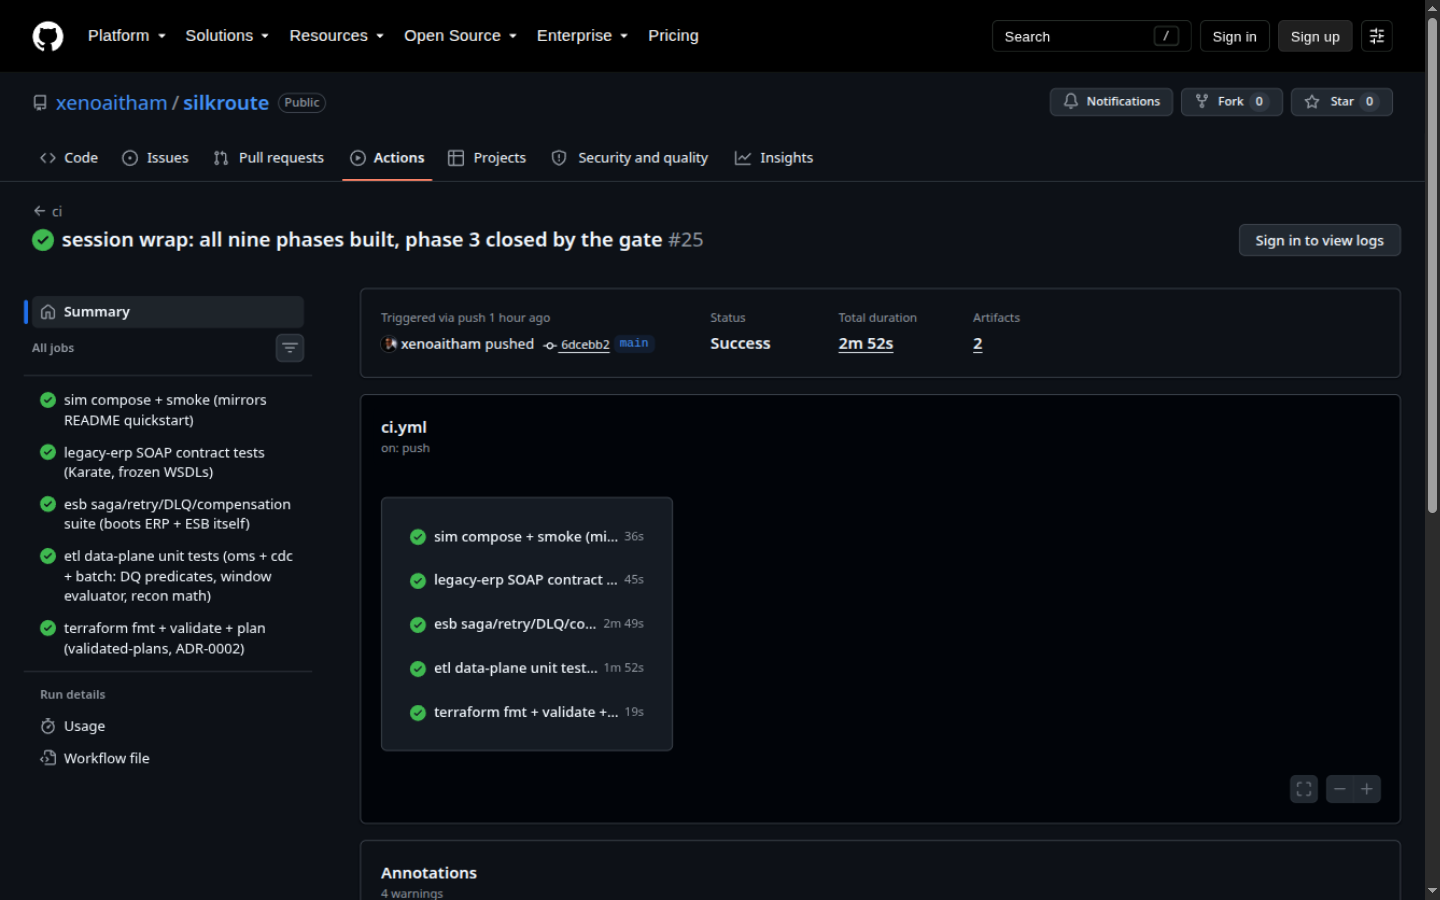
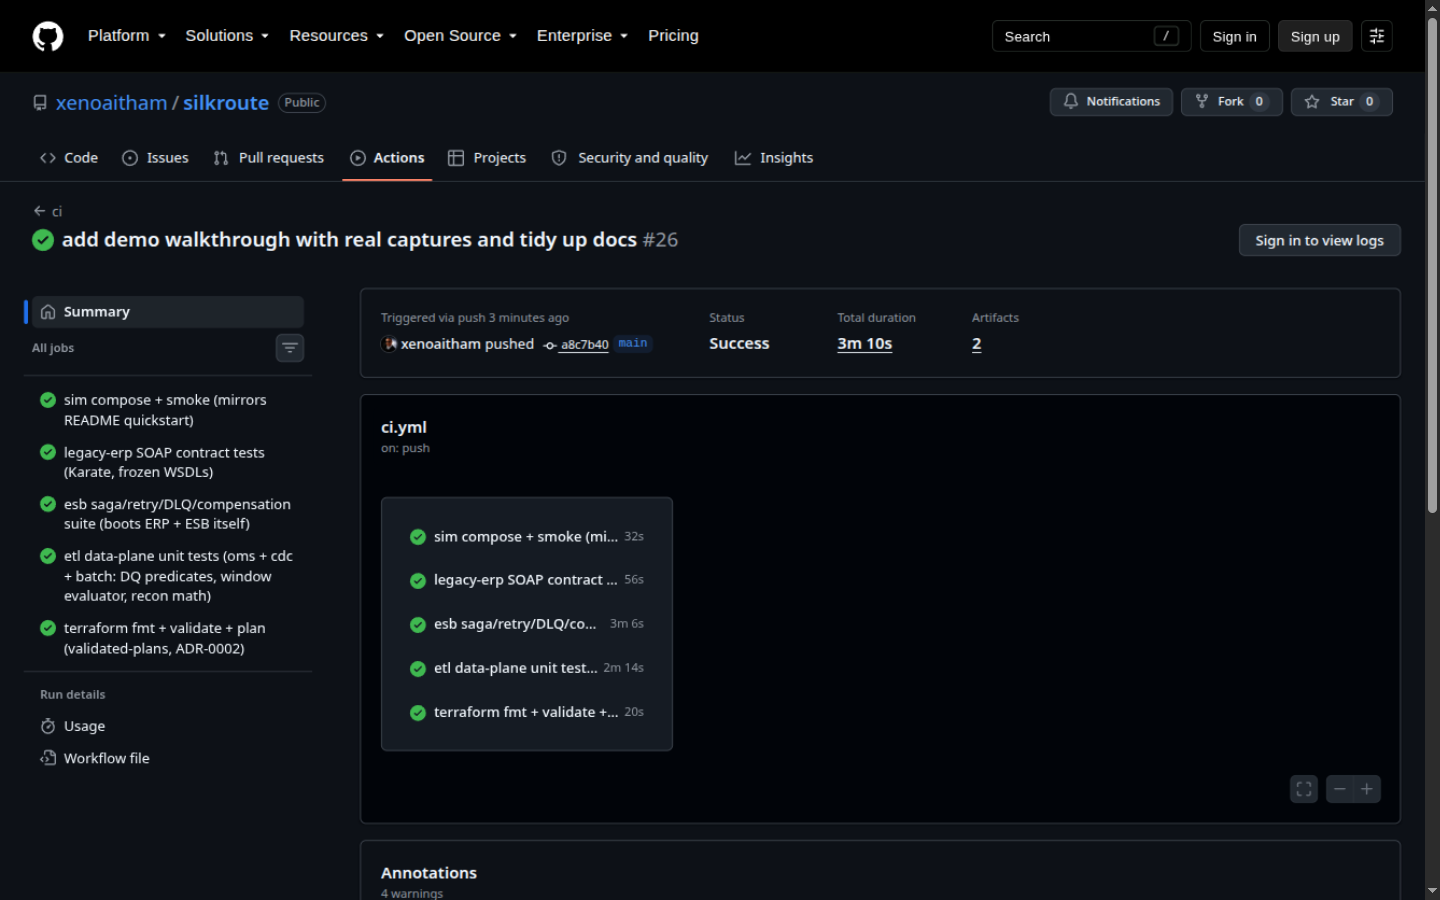
refresh the ci capture in the walkthrough

diff --git a/tests/etl-int/README.md b/tests/etl-int/README.md
@@ -23,7 +23,7 @@ Exit code 0 only if ALL six scenarios print their `PASS <name>` line; the
 first failed assertion prints `FAIL: ...` and exits non-zero immediately.
 
 The full transcript is tee'd to `/tmp/s9-etl-int-run.txt` (deliberately NOT
-committed; the maintainer copies what it needs into `evidence/`).
+committed; copy what you need into `evidence/`).
 
 Approximate runtime: 6-10 minutes (Spark local batch runs dominate).
 
@@ -87,7 +87,7 @@ Approximate runtime: 6-10 minutes (Spark local batch runs dominate).
 - Processes are started/stopped ONLY via the make PID-file targets
  (`esb-run/oms-run/cdc-run`, `esb-stop/oms-stop/cdc-stop`); NEVER pkill.
 - A trap stops esb+oms+cdc on ANY exit path (success, failure, interrupt).
-- On success the suite ends with `make etl-reset` so the maintainer and the
+- On success the suite ends with `make etl-reset` so the next run and the
  review always start from a known clean slate.
 - Only ever touches the sim compose stack (sim-mysql / sim-kafka /
  sim-minio / sim-* proxies); never busforge/helios; no new listening ports.
@@ -99,4 +99,4 @@ Approximate runtime: 6-10 minutes (Spark local batch runs dominate).
 - The business date is computed as `date -u +%F` (bronze `dt` partition =
  UTC date of the seed - C5 timezone-explicit).
 - No Makefile target is wired for this suite yet: `make etl-int` (or
- similar) is requested from the maintainer; until then run the script directly.
+ similar) is requested; until then run the script directly.

diff --git a/decisions/ADR-0002-cloud-account-path.md b/decisions/ADR-0002-cloud-account-path.md
@@ -5,10 +5,10 @@
 
 ## Context
 
-the project charter landing zone requires proving real AliCloud environment skill (Terraform alicloud modules, RAM least-privilege, KMS, SLS, OSS, RDS, SAE/ACK) and sets strict cost guardrails. The honest situation as of Session 1:
+The landing-zone workstream requires proving real AliCloud environment skill (Terraform alicloud modules, RAM least-privilege, KMS, SLS, OSS, RDS, SAE/ACK) and sets strict cost guardrails. The honest situation at the start of the build:
 
 - No AliCloud account is currently available in this build environment.
-- the project charter landing zone explicitly anticipates this: *"If no cloud account: validated-plans mode with sim-runtime parity, labeled honestly in evidence as 'validated IaC, sim runtime.'"*
+- The landing-zone plan explicitly anticipates this: *"If no cloud account: validated-plans mode with sim-runtime parity, labeled honestly in evidence as 'validated IaC, sim runtime.'"*
 - forbids invented metrics and requires every claim to map to a real artifact.
 
 ## Options considered

diff --git a/docs/hld.md b/docs/hld.md
@@ -4,7 +4,7 @@ Maple Retail Group is a **fictional** Canadian retailer; this document is part o
 
 **Doc status, stated once and applying throughout:** the left side of every diagram in this document - the ESB, the frozen SOAP ERP, the sim data services, the ETL data plane, and all measured behavior - **runs here today** in sim mode (docker-compose + Spring Boot jars on host loopback). The right side - the AliCloud landing zone - is **validated IaC: schema- and plan-proven against the real `alicloud` provider, never applied** (ADR-0002; no account exists, plans create nothing). The CN partition is additionally **designed and plan-validated only** (ADR-0005). SLS runtime behavior and real cloud costs verify at activation. CDC freshness is **measured in sim** (producer live, E-030/E-031); SLS ingest of it verifies at activation.
 
-## 1. Scenario constraints (C1-C7, verbatim from [the project charter](../the project charter) )
+## 1. Scenario constraints (C1-C7)
 
 | # | Constraint | Consequence |
 |---|---|---|

diff --git a/decisions/ADR-0004-sae-over-ack-and-budget-alarm.md b/decisions/ADR-0004-sae-over-ack-and-budget-alarm.md
@@ -7,7 +7,7 @@
 
 landing zone requires a cloud compute target for the ESB (a long-running Spring Boot + Camel hub holding persistent Kafka consumers) and a budget alarm (~$20, landing zone). already states the preference: *"Prefer SAE / Function Compute (pay-per-use) over long-running ECS/ACK nodepools; use spot if ACK is required."* Validated-plans mode (ADR-0002) applies - nothing is deployed - but the decision still shapes the Terraform and the interview story.
 
-Separately, the maintainer verified against the actual provider 1.285.0 schema (1161 resources, `terraform providers schema -json`) that **no budget/BSS/billing resource exists** in the provider. Any Terraform "budget alarm" resource would be fabrication.
+Separately, verified against the actual provider 1.285.0 schema (1161 resources, `terraform providers schema -json`) that **no budget/BSS/billing resource exists** in the provider. Any Terraform "budget alarm" resource would be fabrication.
 
 ## Options considered
 

diff --git a/decisions/ADR-0003-wsdl-contract-freeze.md b/decisions/ADR-0003-wsdl-contract-freeze.md
@@ -5,7 +5,7 @@
 
 ## Context
 
-Scenario constraint **C6** states: *"The ERP team will NOT modify their WSDLs - all impedance mismatch must live in the ESB layer (XSLT, canonical model)."* the project charter ERP integration makes the freeze an acceptance criterion: contracts are authored first, validated, implemented against, and **frozen the moment contract tests pass**.
+Scenario constraint **C6** states: *"The ERP team will NOT modify their WSDLs - all impedance mismatch must live in the ESB layer (XSLT, canonical model)."* The original build plan makes the freeze an acceptance criterion: contracts are authored first, validated, implemented against, and **frozen the moment contract tests pass**.
 
 ERP integration produced three SOAP 1.2 WSDLs (document/literal wrapped) and four XSDs (`apps/legacy-erp/src/main/resources/{wsdl,xsd}/`):
 
